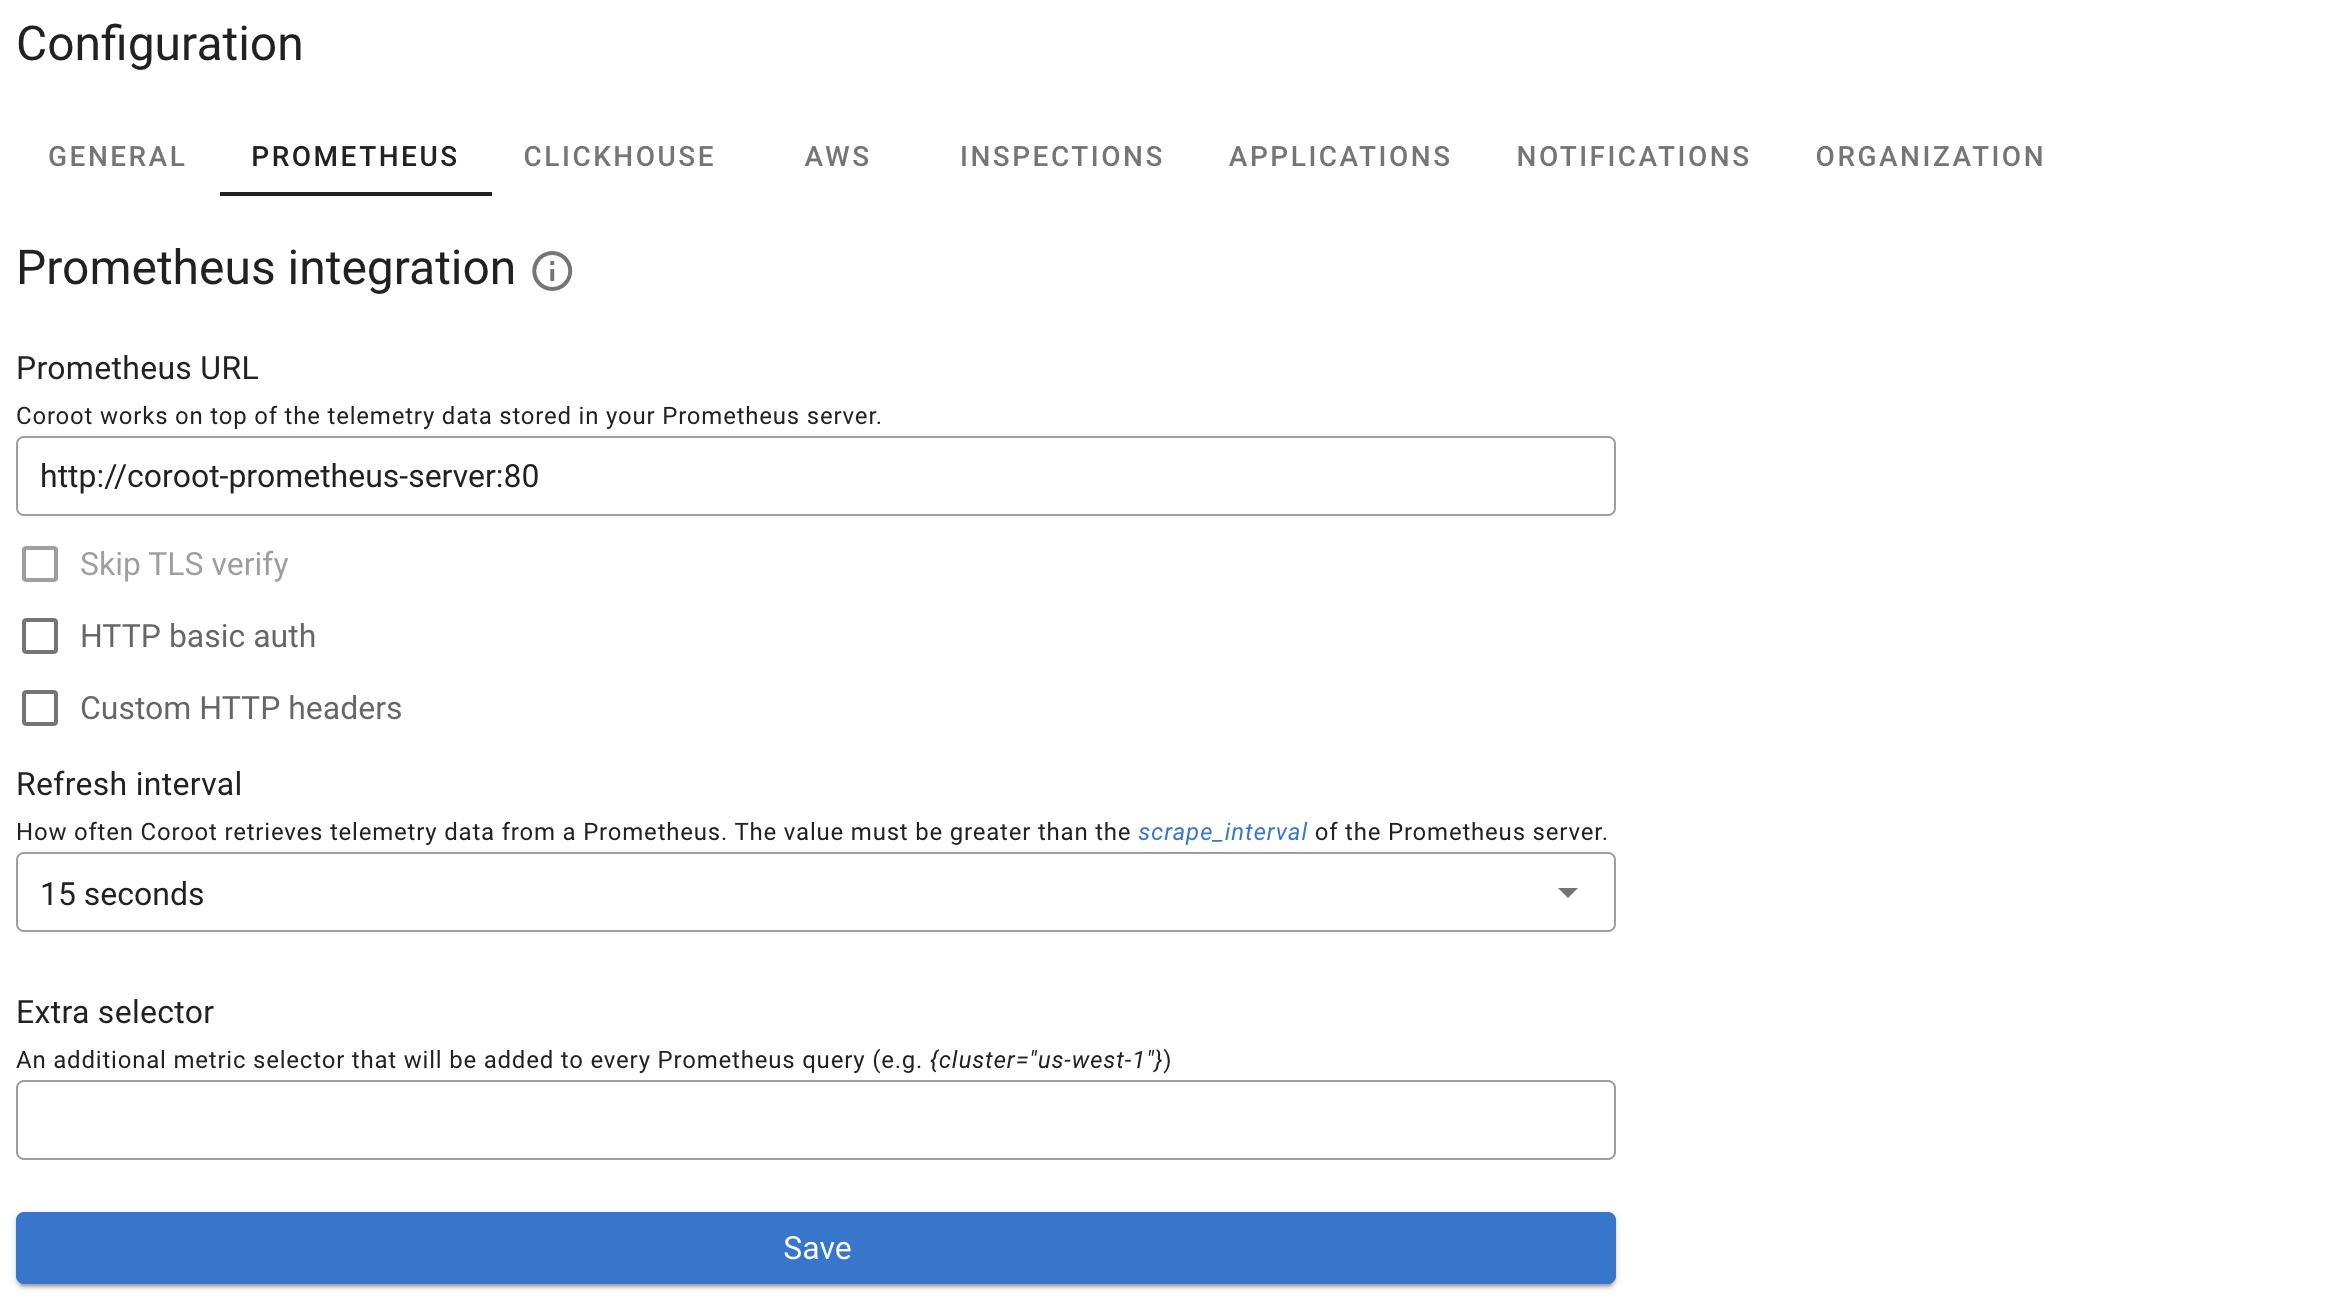
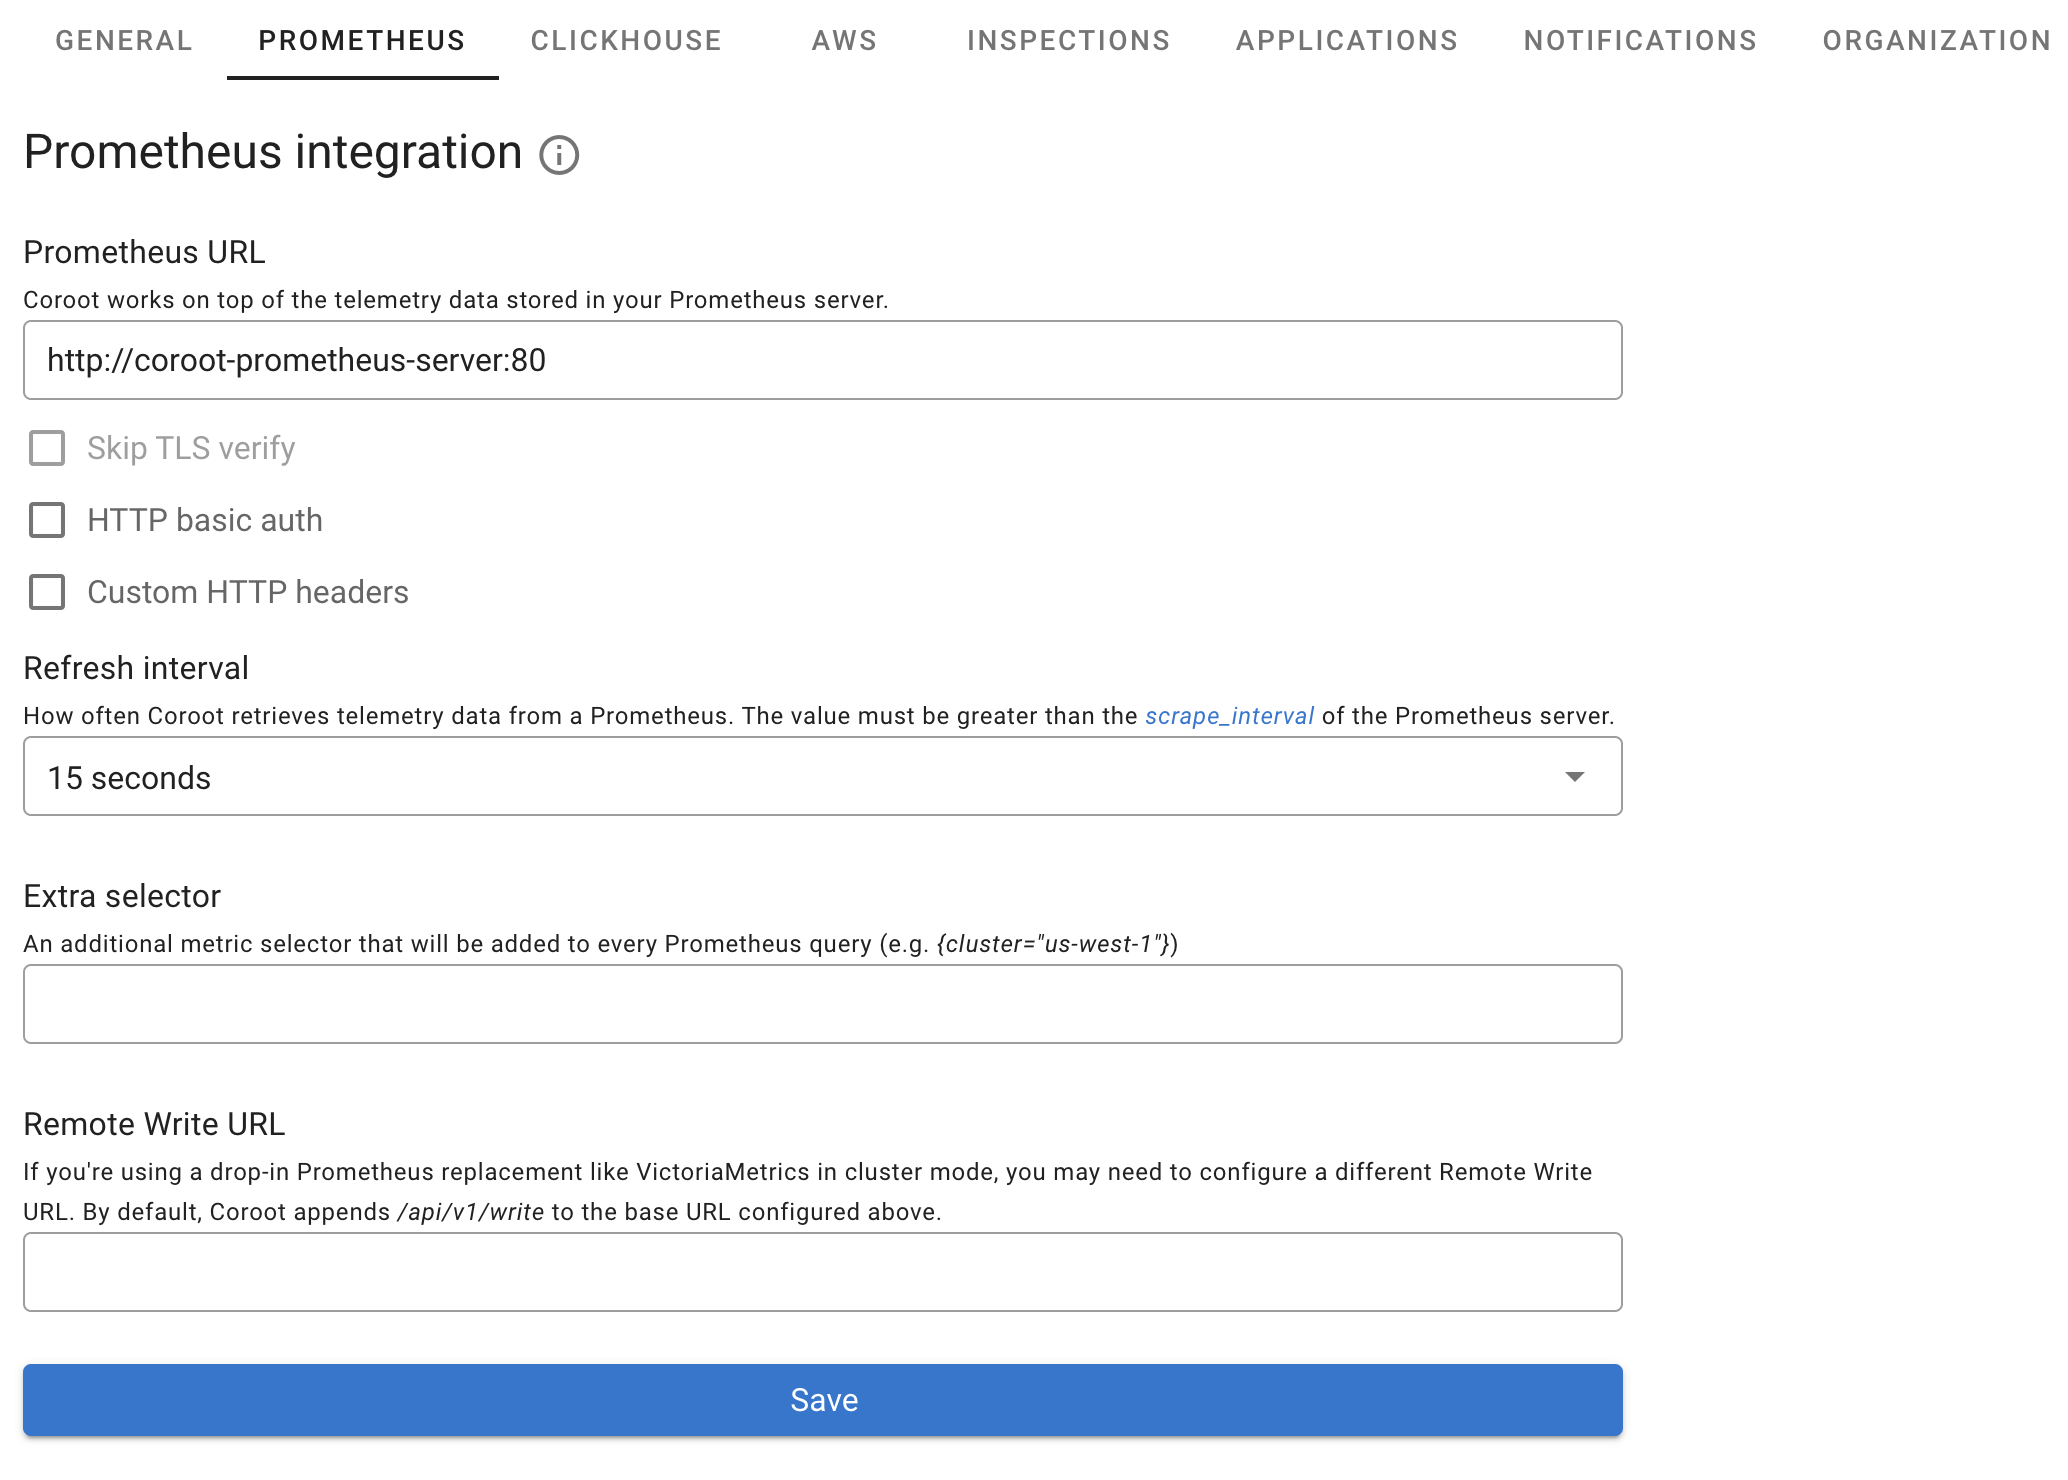
prometheus: configurable Remote Write URL

diff --git a/front/src/views/IntegrationPrometheus.vue b/front/src/views/IntegrationPrometheus.vue
@@ -66,6 +66,13 @@
         <div class="caption">An additional metric selector that will be added to every Prometheus query (e.g. <var>{cluster="us-west-1"}</var>)</div>
         <v-text-field outlined dense v-model="form.extra_selector" :rules="[$validators.isPrometheusSelector]" single-line :disabled="form.global" />
 
+        <div class="subtitle-1">Remote Write URL</div>
+        <div class="caption">
+            If you're using a drop-in Prometheus replacement like VictoriaMetrics in cluster mode, you may need to configure a different Remote Write
+            URL. By default, Coroot appends <var>/api/v1/write</var> to the base URL configured above.
+        </div>
+        <v-text-field outlined dense v-model="form.remote_write_url" :rules="[$validators.isUrl]" single-line :disabled="form.global" />
+
         <v-alert v-if="error" color="red" icon="mdi-alert-octagon-outline" outlined text>
             {{ error }}
         </v-alert>

diff --git a/config/flags.go b/config/flags.go
@@ -28,20 +28,23 @@ var (
 	globalClickhouseTlsEnabled      = kingpin.Flag("global-clickhouse-tls-enabled", "").Envar("GLOBAL_CLICKHOUSE_TLS_ENABLED").Bool()
 	globalClickhouseTlsSkipVerify   = kingpin.Flag("global-clickhouse-tls-skip-verify", "").Envar("GLOBAL_CLICKHOUSE_TLS_SKIP_VERIFY").Bool()
 
-	globalPrometheusUrl           = kingpin.Flag("global-prometheus-url", "").Envar("GLOBAL_PROMETHEUS_URL").String()
-	globalPrometheusTlsSkipVerify = kingpin.Flag("global-prometheus-tls-skip-verify", "").Envar("GLOBAL_PROMETHEUS_TLS_SKIP_VERIFY").Bool()
-	globalRefreshInterval         = kingpin.Flag("global-refresh-interval", "").Envar("GLOBAL_REFRESH_INTERVAL").Duration()
-	globalPrometheusUser          = kingpin.Flag("global-prometheus-user", "").Envar("GLOBAL_PROMETHEUS_USER").String()
-	globalPrometheusPassword      = kingpin.Flag("global-prometheus-password", "").Envar("GLOBAL_PROMETHEUS_PASSWORD").String()
-	globalPrometheusCustomHeaders = kingpin.Flag("global-prometheus-custom-headers", "").Envar("GLOBAL_PROMETHEUS_CUSTOM_HEADER").StringMap()
+	globalPrometheusUrl            = kingpin.Flag("global-prometheus-url", "").Envar("GLOBAL_PROMETHEUS_URL").String()
+	globalPrometheusTlsSkipVerify  = kingpin.Flag("global-prometheus-tls-skip-verify", "").Envar("GLOBAL_PROMETHEUS_TLS_SKIP_VERIFY").Bool()
+	globalRefreshInterval          = kingpin.Flag("global-refresh-interval", "").Envar("GLOBAL_REFRESH_INTERVAL").Duration()
+	globalPrometheusUser           = kingpin.Flag("global-prometheus-user", "").Envar("GLOBAL_PROMETHEUS_USER").String()
+	globalPrometheusPassword       = kingpin.Flag("global-prometheus-password", "").Envar("GLOBAL_PROMETHEUS_PASSWORD").String()
+	globalPrometheusCustomHeaders  = kingpin.Flag("global-prometheus-custom-headers", "").Envar("GLOBAL_PROMETHEUS_CUSTOM_HEADER").StringMap()
+	globalPrometheusRemoteWriteUrl = kingpin.Flag("global-prometheus-remote-write-url", "").Envar("GLOBAL_PROMETHEUS_REMOTE_WRITE_URL").String()
 
-	bootstrapPrometheusUrl           = kingpin.Flag("bootstrap-prometheus-url", "").Envar("BOOTSTRAP_PROMETHEUS_URL").String()
-	bootstrapRefreshInterval         = kingpin.Flag("bootstrap-refresh-interval", "").Envar("BOOTSTRAP_REFRESH_INTERVAL").Duration()
-	bootstrapPrometheusExtraSelector = kingpin.Flag("bootstrap-prometheus-extra-selector", "").Envar("BOOTSTRAP_PROMETHEUS_EXTRA_SELECTOR").String()
-	bootstrapClickhouseAddress       = kingpin.Flag("bootstrap-clickhouse-address", "").Envar("BOOTSTRAP_CLICKHOUSE_ADDRESS").String()
-	bootstrapClickhouseUser          = kingpin.Flag("bootstrap-clickhouse-user", "").Envar("BOOTSTRAP_CLICKHOUSE_USER").String()
-	bootstrapClickhousePassword      = kingpin.Flag("bootstrap-clickhouse-password", "").Envar("BOOTSTRAP_CLICKHOUSE_PASSWORD").String()
-	bootstrapClickhouseDatabase      = kingpin.Flag("bootstrap-clickhouse-database", "").Envar("BOOTSTRAP_CLICKHOUSE_DATABASE").String()
+	bootstrapPrometheusUrl            = kingpin.Flag("bootstrap-prometheus-url", "").Envar("BOOTSTRAP_PROMETHEUS_URL").String()
+	bootstrapRefreshInterval          = kingpin.Flag("bootstrap-refresh-interval", "").Envar("BOOTSTRAP_REFRESH_INTERVAL").Duration()
+	bootstrapPrometheusExtraSelector  = kingpin.Flag("bootstrap-prometheus-extra-selector", "").Envar("BOOTSTRAP_PROMETHEUS_EXTRA_SELECTOR").String()
+	bootstrapPrometheusRemoteWriteUrl = kingpin.Flag("bootstrap-prometheus-remote-write-url", "").Envar("BOOTSTRAP_PROMETHEUS_REMOTE_WRITE_URL").String()
+
+	bootstrapClickhouseAddress  = kingpin.Flag("bootstrap-clickhouse-address", "").Envar("BOOTSTRAP_CLICKHOUSE_ADDRESS").String()
+	bootstrapClickhouseUser     = kingpin.Flag("bootstrap-clickhouse-user", "").Envar("BOOTSTRAP_CLICKHOUSE_USER").String()
+	bootstrapClickhousePassword = kingpin.Flag("bootstrap-clickhouse-password", "").Envar("BOOTSTRAP_CLICKHOUSE_PASSWORD").String()
+	bootstrapClickhouseDatabase = kingpin.Flag("bootstrap-clickhouse-database", "").Envar("BOOTSTRAP_CLICKHOUSE_DATABASE").String()
 )
 
 func (cfg *Config) applyFlags() {
@@ -130,6 +133,9 @@ func (cfg *Config) applyFlags() {
 	if *globalPrometheusPassword != "" {
 		cfg.GlobalPrometheus.Password = *globalPrometheusPassword
 	}
+	if *globalPrometheusRemoteWriteUrl != "" {
+		cfg.GlobalPrometheus.RemoteWriteUrl = *globalPrometheusRemoteWriteUrl
+	}
 	for name, value := range *globalPrometheusCustomHeaders {
 		cfg.GlobalPrometheus.CustomHeaders[name] = value
 	}
@@ -142,6 +148,7 @@ func (cfg *Config) applyFlags() {
 			Url:             *bootstrapPrometheusUrl,
 			RefreshInterval: *bootstrapRefreshInterval,
 			ExtraSelector:   *bootstrapPrometheusExtraSelector,
+			RemoteWriteUrl:  *bootstrapPrometheusRemoteWriteUrl,
 		}
 		if cfg.BootstrapPrometheus.RefreshInterval <= 0 {
 			cfg.BootstrapPrometheus.RefreshInterval = db.DefaultRefreshInterval

diff --git a/config/config.go b/config/config.go
@@ -85,6 +85,18 @@ type Prometheus struct {
 	Password        string            `yaml:"password"`
 	ExtraSelector   string            `yaml:"extra_selector"`
 	CustomHeaders   map[string]string `yaml:"custom_headers"`
+	RemoteWriteUrl  string            `yaml:"remote_write_url"`
+}
+
+func validateUrl(urlString string) error {
+	u, err := url.Parse(urlString)
+	if err != nil {
+		return fmt.Errorf("invalid url: %w", err)
+	}
+	if u.Scheme != "http" && u.Scheme != "https" {
+		return fmt.Errorf("invalid url '%s': missing protocol scheme (http:// or https://)", urlString)
+	}
+	return nil
 }
 
 func (p *Prometheus) Validate() error {
@@ -94,12 +106,13 @@ func (p *Prometheus) Validate() error {
 	if p.Url == "" {
 		return fmt.Errorf("url is required")
 	}
-	u, err := url.Parse(p.Url)
-	if err != nil {
-		return fmt.Errorf("invalid url: %w", err)
+	if err := validateUrl(p.Url); err != nil {
+		return err
 	}
-	if u.Scheme != "http" && u.Scheme != "https" {
-		return fmt.Errorf("invalid url '%s': missing protocol scheme (http:// or https://)", p.Url)
+	if p.RemoteWriteUrl != "" {
+		if err := validateUrl(p.RemoteWriteUrl); err != nil {
+			return err
+		}
 	}
 	if p.RefreshInterval <= 0 {
 		return fmt.Errorf("invalid refresh-interval: %d", p.RefreshInterval)
@@ -276,6 +289,7 @@ func (cfg *Config) GetGlobalPrometheus() *db.IntegrationPrometheus {
 		RefreshInterval: timeseries.DurationFromStandard(prometheus.RefreshInterval),
 		TlsSkipVerify:   prometheus.TlsSkipVerify,
 		ExtraSelector:   prometheus.ExtraSelector,
+		RemoteWriteUrl:  prometheus.RemoteWriteUrl,
 	}
 	if prometheus.User != "" && prometheus.Password != "" {
 		p.BasicAuth = &utils.BasicAuth{
@@ -299,6 +313,7 @@ func (cfg *Config) GetBootstrapPrometheus() *db.IntegrationPrometheus {
 		RefreshInterval: timeseries.DurationFromStandard(prometheus.RefreshInterval),
 		TlsSkipVerify:   prometheus.TlsSkipVerify,
 		ExtraSelector:   prometheus.ExtraSelector,
+		RemoteWriteUrl:  prometheus.RemoteWriteUrl,
 	}
 	if prometheus.User != "" && prometheus.Password != "" {
 		p.BasicAuth = &utils.BasicAuth{

diff --git a/collector/metrics.go b/collector/metrics.go
@@ -71,19 +71,28 @@ func (c *Collector) Metrics(w http.ResponseWriter, r *http.Request) {
 		return
 	}
 	cfg := project.PrometheusConfig(c.globalPrometheus)
-	u, err := url.Parse(cfg.Url)
-	if err != nil {
-		klog.Errorln(err)
-		http.Error(w, "", http.StatusInternalServerError)
-		return
+
+	var u *url.URL
+	if cfg.RemoteWriteUrl == "" {
+		u, err = url.Parse(cfg.Url)
+		if err != nil {
+			klog.Errorln(err)
+			http.Error(w, "", http.StatusInternalServerError)
+			return
+		}
+		u = u.JoinPath("/api/v1/write")
+	} else {
+		u, err = url.Parse(cfg.RemoteWriteUrl)
+		if err != nil {
+			klog.Errorln(err)
+			http.Error(w, "", http.StatusInternalServerError)
+			return
+		}
 	}
 
 	if cfg.BasicAuth != nil {
 		u.User = url.UserPassword(cfg.BasicAuth.User, cfg.BasicAuth.Password)
 	}
-
-	u = u.JoinPath("/api/v1/write")
-
 	body, err := addLabelsIfNeeded(r, cfg.ExtraLabels)
 	if err != nil {
 		klog.Errorln(err)

diff --git a/api/forms/forms.go b/api/forms/forms.go
@@ -222,6 +222,11 @@ func (f *IntegrationFormPrometheus) Valid() bool {
 	if _, err := url.Parse(f.IntegrationPrometheus.Url); err != nil {
 		return false
 	}
+	if f.RemoteWriteUrl != "" {
+		if _, err := url.Parse(f.IntegrationPrometheus.RemoteWriteUrl); err != nil {
+			return false
+		}
+	}
 	if !prom.IsSelectorValid(f.IntegrationPrometheus.ExtraSelector) {
 		return false
 	}
@@ -250,6 +255,9 @@ func (f *IntegrationFormPrometheus) Get(project *db.Project, masked bool) {
 		}
 		for i := range f.CustomHeaders {
 			f.CustomHeaders[i].Value = "<hidden>"
+		}
+		if f.RemoteWriteUrl != "" {
+			f.RemoteWriteUrl = "<hidden>"
 		}
 	}
 }

diff --git a/db/integrations.go b/db/integrations.go
@@ -103,6 +103,7 @@ type IntegrationPrometheus struct {
 	BasicAuth       *utils.BasicAuth    `json:"basic_auth"`
 	ExtraSelector   string              `json:"extra_selector"`
 	CustomHeaders   []utils.Header      `json:"custom_headers"`
+	RemoteWriteUrl  string              `json:"remote_write_url"`
 	ExtraLabels     map[string]string   `json:"-"`
 }
 

diff --git a/docs/docs/configuration/cli-arguments.md b/docs/docs/configuration/cli-arguments.md
@@ -32,3 +32,4 @@ sidebar_position: 3
 | --global-prometheus-user             | GLOBAL_PROMETHEUS_USER             |               | The username for the Prometheus server to be used for all projects.                                                                                                             |
 | --global-prometheus-password         | GLOBAL_PROMETHEUS_PASSWORD         |               | The password for the Prometheus server to be used for all projects.                                                                                                             |
 | --global-prometheus-custom-headers   | GLOBAL_PROMETHEUS_CUSTOM_HEADERS   |               | Custom headers to include in requests to the Prometheus server.                                                                                                                 |
+| --global-prometheus-remote-write-url | GLOBAL_PROMETHEUS_REMOTE_WRITE_URL |               | The URL for metric ingestion though the Prometheus Remote Write protocol.                                                                                                       |

diff --git a/docs/docs/configuration/prometheus.md b/docs/docs/configuration/prometheus.md
@@ -9,6 +9,12 @@ click on **Prometheus**, and define the Prometheus address and credentials as sh
 
 <img alt="Prometheus Configuration" src="/img/docs/prometheus_configuration.png" class="card w-1200"/>
 
+## VictoriaMetrics
+
+Coroot fully supports VictoriaMetrics as a drop-in replacement for Prometheus. In clustered mode, you may need separate 
+URLs for metric ingestion and queries. To configure this, set [GLOBAL_PROMETHEUS_REMOTE_WRITE_URL](/configuration/cli-arguments) to point to `vminsert` for ingestion, 
+while keeping [GLOBAL_PROMETHEUS_URL](/configuration/cli-arguments) directed to `vmselect` for queries.
+
 ## Multi-tenancy mode
 
 Coroot supports a multi-tenancy mode, allowing a single Prometheus server to store metrics for multiple projects (or clusters).
